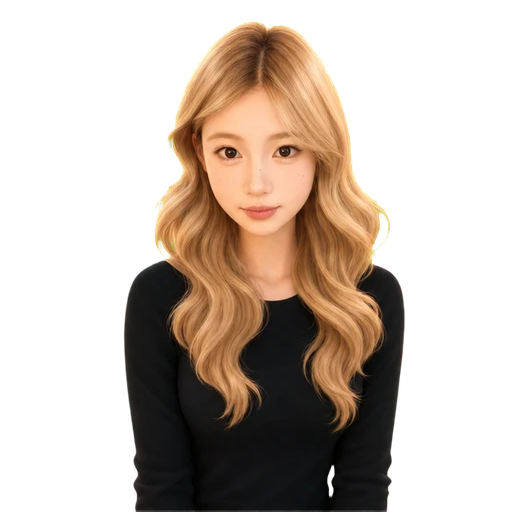
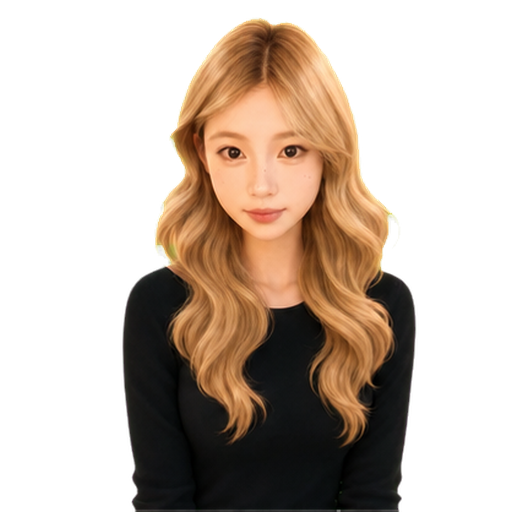
Add state-aware assistant gestures

Changed region(s): [[0.25, 0.0312, 0.8125, 1.0], [0.2188, 0.625, 0.2812, 1.0], [0.625, 0.9062, 0.6562, 1.0]]

diff --git a/frontend/pet.js b/frontend/pet.js
@@ -5,6 +5,12 @@
   let busy = false;
   const aiConfigStorageKey = "data-pet-ai-config-v1";
   const petPositionStorageKey = "data-pet-position-v1";
+  const petMotionSources = {
+    idle: "/assets/ai-assistant-idle.webp",
+    greet: "/assets/ai-assistant-greet.webp",
+    thinking: "/assets/ai-assistant-thinking.webp",
+    success: "/assets/ai-assistant-success.webp",
+  };
 
   const escapeHtml = (value) => String(value ?? "")
     .replaceAll("&", "&amp;")
@@ -22,7 +28,7 @@
         <header class="data-pet-head">
           <div class="data-pet-identity">
             <picture class="data-pet-avatar-frame">
-              <source media="(prefers-reduced-motion: no-preference)" srcset="/assets/ai-assistant-animated.webp" type="image/webp" />
+              <source data-pet-motion media="(prefers-reduced-motion: no-preference)" srcset="/assets/ai-assistant-idle.webp" type="image/webp" />
               <img class="data-pet-avatar" src="/assets/ai-assistant-v2.png" alt="" />
             </picture>
             <div><div class="data-pet-name">AI 数据助手</div><div class="data-pet-mode">报表对话与数据分析</div></div>
@@ -55,7 +61,7 @@
       </section>
       <button class="data-pet-toggle" type="button" aria-label="打开 AI 数据助手" aria-expanded="false">
         <picture class="data-pet-character">
-          <source media="(prefers-reduced-motion: no-preference)" srcset="/assets/ai-assistant-animated.webp" type="image/webp" />
+          <source data-pet-motion media="(prefers-reduced-motion: no-preference)" srcset="/assets/ai-assistant-idle.webp" type="image/webp" />
           <img src="/assets/ai-assistant-v2.png" alt="" draggable="false" />
         </picture>
         <span class="data-pet-dot"></span>
@@ -77,6 +83,20 @@
   const apiKeyInput = root.querySelector(".data-pet-api-key");
   const head = root.querySelector(".data-pet-head");
   let dragState = null;
+  let motionTimer = 0;
+
+  function setPetMotion(name, resetAfter = 0) {
+    const source = petMotionSources[name] || petMotionSources.idle;
+    window.clearTimeout(motionTimer);
+    root.querySelectorAll("source[data-pet-motion]").forEach((item) => {
+      if (item.getAttribute("srcset") !== source) item.setAttribute("srcset", source);
+    });
+    motionTimer = resetAfter > 0
+      ? window.setTimeout(() => {
+        if (!busy) setPetMotion("idle");
+      }, resetAfter)
+      : 0;
+  }
 
   function updatePanelDirection() {
     if (window.innerWidth <= 560) {
@@ -221,6 +241,7 @@
   function openPet() {
     panel.hidden = false;
     toggle.setAttribute("aria-expanded", "true");
+    if (!busy) setPetMotion("greet", 2600);
     keepPanelInViewport();
     if (root.style.left) {
       const rect = root.getBoundingClientRect();
@@ -232,6 +253,7 @@
   function closePet() {
     panel.hidden = true;
     toggle.setAttribute("aria-expanded", "false");
+    if (!busy) setPetMotion("idle");
   }
 
   async function ask(question) {
@@ -242,6 +264,8 @@
     send.disabled = true;
     addMessage("user", message);
     const thinking = addMessage("assistant", "正在查看当前报表…", "thinking");
+    setPetMotion("thinking");
+    let succeeded = false;
     try {
       const context = typeof window.getPetReportContext === "function"
         ? window.getPetReportContext()
@@ -263,10 +287,13 @@
         ? `${result.provider === "deepseek" ? "DeepSeek" : "OpenAI"} 对话 · 当前报表数据`
         : "本地数据分析";
       history.push({ role: "user", content: message }, { role: "assistant", content: result.reply });
+      succeeded = true;
+      setPetMotion("success", 3600);
     } catch (error) {
       thinking.textContent = error instanceof Error ? error.message : "分析失败，请稍后重试。";
     } finally {
       busy = false;
+      if (!succeeded) setPetMotion("idle");
       send.disabled = false;
       input.focus();
     }
@@ -291,6 +318,9 @@
   });
   toggle.addEventListener("click", (event) => {
     if (event.detail === 0) panel.hidden ? openPet() : closePet();
+  });
+  toggle.addEventListener("pointerenter", () => {
+    if (!busy && panel.hidden) setPetMotion("greet", 2600);
   });
   root.querySelector(".data-pet-close").addEventListener("click", closePet);
   root.querySelector(".data-pet-settings-toggle").addEventListener("click", () => {
